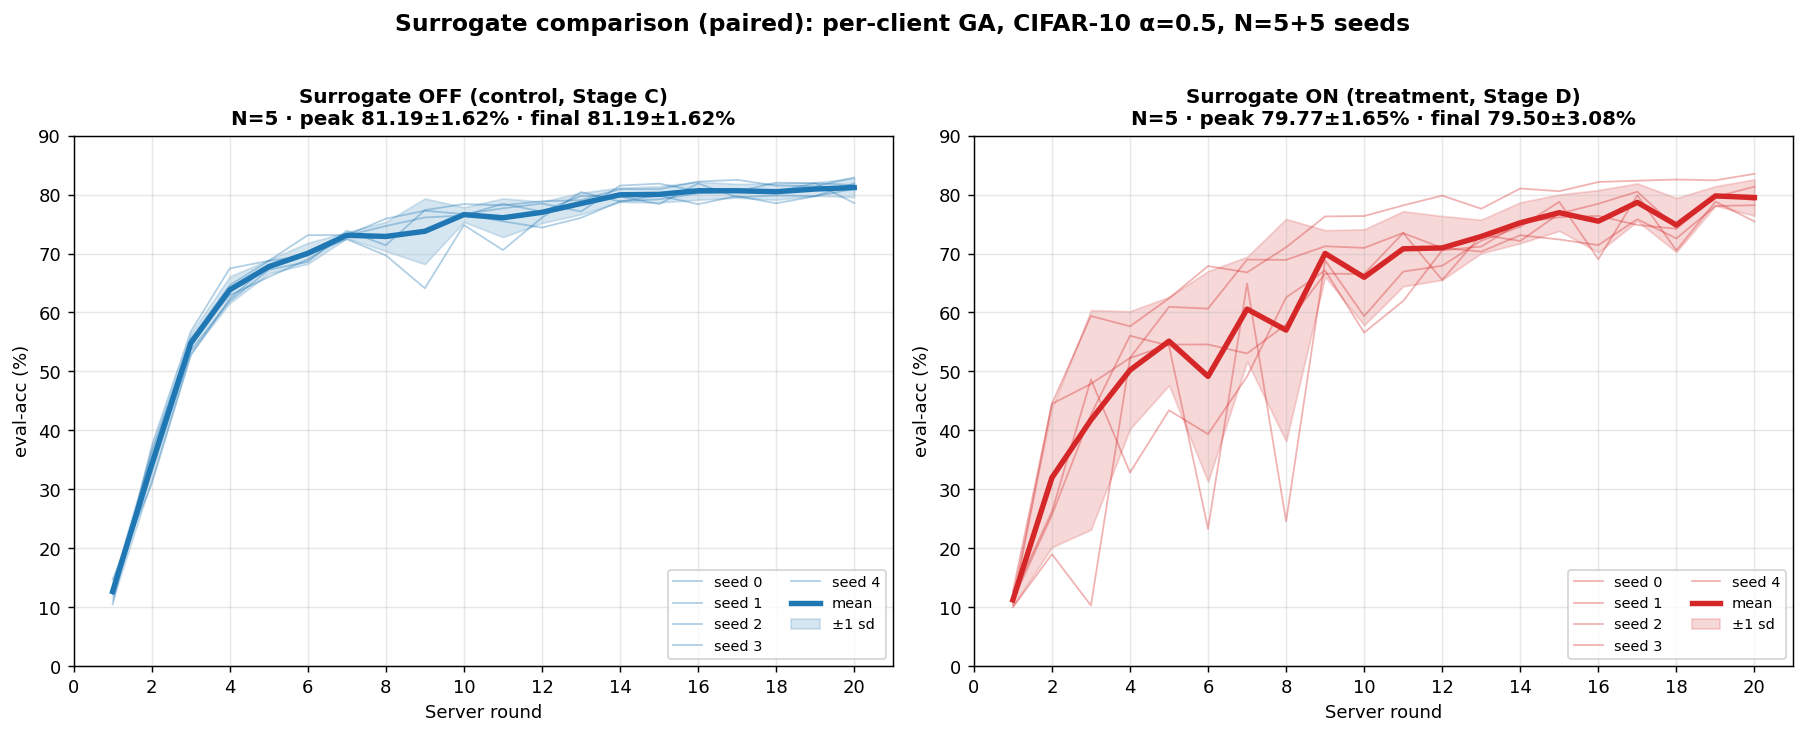
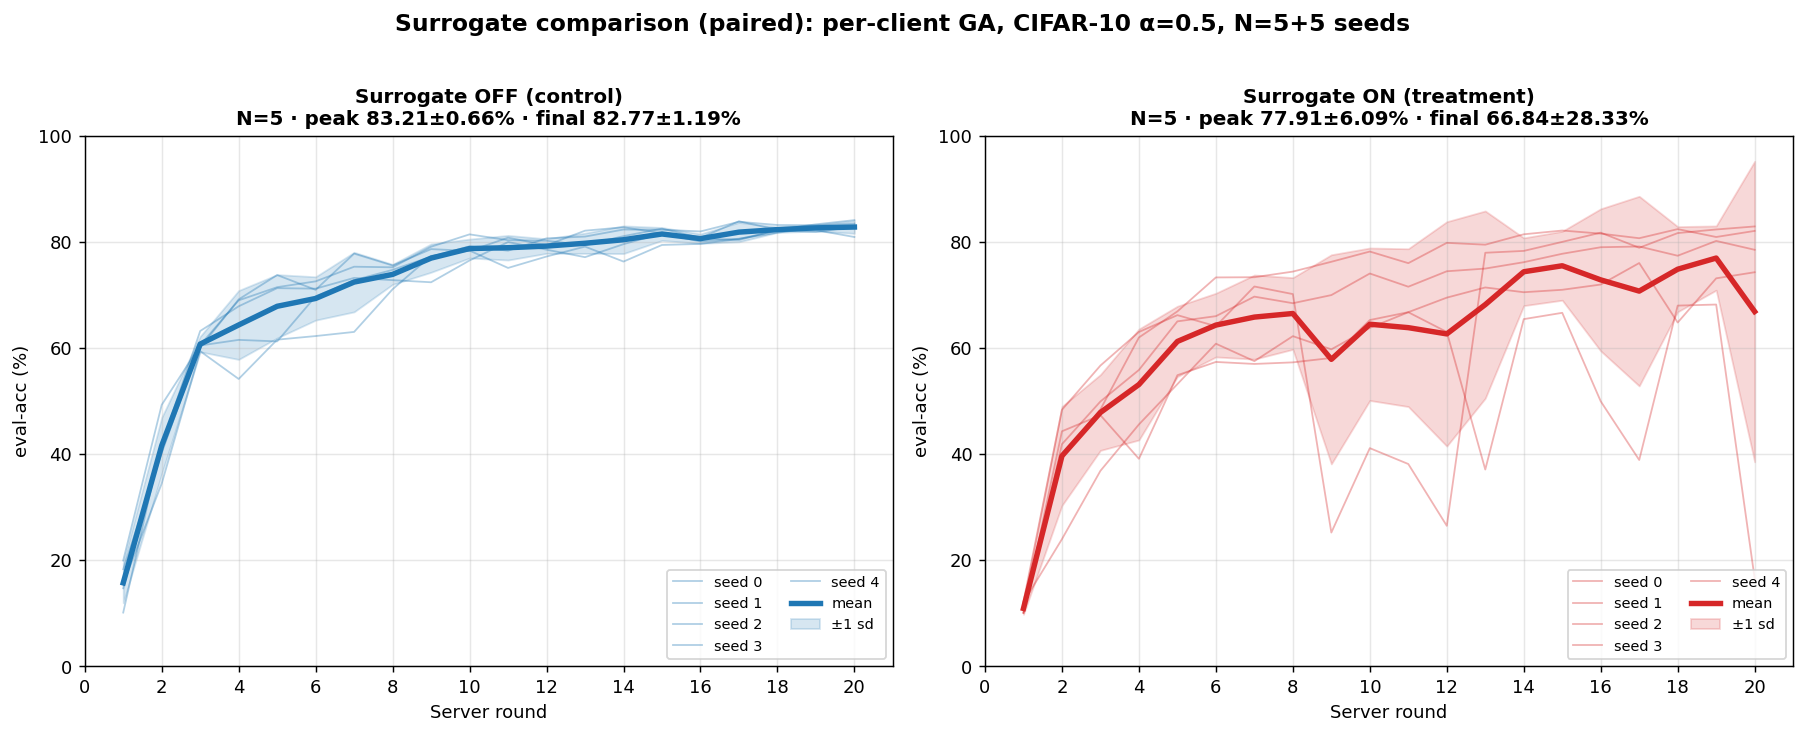
Surrogate comparison on the final runs
surrogate_ablation.py reads FGA_SUMMARY like the other scripts; its plot
titles now show the per-run peak and final used in the report, and the sd
bands stay inside [0, 100].

diff --git a/analysis/surrogate_ablation.py b/analysis/surrogate_ablation.py
@@ -5,6 +5,7 @@ Writes surrogate_ablation.png and surrogate_ablation_report.md next to this file
 from __future__ import annotations
 
 import csv
+import os
 import statistics
 from collections import defaultdict
 from pathlib import Path
@@ -15,7 +16,8 @@ from scipy import stats
 
 ROOT = Path(__file__).resolve().parents[1]
 ARTIFACTS = ROOT / "federatedgeneticalgorithm" / "artifacts"
-MATRIX = ARTIFACTS / "matrix_summary.csv"
+# FGA_SUMMARY picks another summary file, e.g. matrix_summary_final.csv
+MATRIX = Path(os.environ.get("FGA_SUMMARY", ARTIFACTS / "matrix_summary.csv"))
 OUT_PNG = Path(__file__).parent / "surrogate_ablation.png"
 OUT_MD = Path(__file__).parent / "surrogate_ablation_report.md"
 
@@ -127,8 +129,8 @@ def main():
 
     fig, axes = plt.subplots(1, 2, figsize=(14, 5.5))
     panels = [
-        ("Surrogate OFF (control, Stage C)", ctrl, "#1f77b4", axes[0]),
-        ("Surrogate ON (treatment, Stage D)", trt, "#d62728", axes[1]),
+        ("Surrogate OFF (control)", ctrl, "#1f77b4", axes[0]),
+        ("Surrogate ON (treatment)", trt, "#d62728", axes[1]),
     ]
     crashes_per_seed = {}
     for label, rows, color, ax in panels:
@@ -150,20 +152,21 @@ def main():
         sds_arr = np.array(sds)
         ax.plot(all_rounds, means_arr, color=color, lw=3.0, label="mean")
         ax.fill_between(
-            all_rounds, means_arr - sds_arr, means_arr + sds_arr, color=color, alpha=0.18, label="±1 sd"
+            all_rounds, np.clip(means_arr - sds_arr, 0, 100), np.clip(means_arr + sds_arr, 0, 100),
+            color=color, alpha=0.18, label="±1 sd",
         )
-        peak_mean = max(means)
-        peak_sd = sds[int(np.argmax(means))]
-        final_mean = means[-1]
-        final_sd = sds[-1]
+        # per-run peak and final, the same numbers as the report tables
+        peaks = [100 * r["peak"] for r in rows]
+        finals = [accs[-1] for _, _, accs in per_seed]
         ax.set_title(
-            f"{label}\nN=5 · peak {peak_mean:.2f}±{peak_sd:.2f}% · final {final_mean:.2f}±{final_sd:.2f}%",
+            f"{label}\nN={len(rows)} · peak {statistics.mean(peaks):.2f}±{statistics.stdev(peaks):.2f}% "
+            f"· final {statistics.mean(finals):.2f}±{statistics.stdev(finals):.2f}%",
             fontsize=11, fontweight="bold",
         )
         ax.set_xlabel("Server round")
         ax.set_ylabel("eval-acc (%)")
         ax.set_xlim(0, 21)
-        ax.set_ylim(0, 90)
+        ax.set_ylim(0, 100)
         ax.set_xticks(range(0, 21, 2))
         ax.grid(alpha=0.3)
         ax.legend(loc="lower right", fontsize=8, ncol=2)

diff --git a/analysis/surrogate_ablation_report.md b/analysis/surrogate_ablation_report.md
@@ -6,45 +6,46 @@
 
 | Variant | N | Mean (%) | SD (%) | CI95% ± (%) | Median (%) | IQR (%) | Min–Max (%) |
 |---|---:|---:|---:|---:|---:|---:|---:|
-| Surrogate OFF (control) | 5 | 81.94 | 0.68 | 0.84 | 81.91 | 0.11 | 80.97–82.89 |
-| Surrogate ON (treatment) | 5 | 80.69 | 1.96 | 2.43 | 80.49 | 1.44 | 78.19–83.52 |
+| Surrogate OFF (control) | 5 | 83.21 | 0.66 | 0.81 | 82.83 | 1.03 | 82.66–84.07 |
+| Surrogate ON (treatment) | 5 | 77.91 | 6.09 | 7.57 | 80.15 | 6.40 | 68.16–82.88 |
 
-**Δ (OFF − ON) = +1.25 pp** · Mann-Whitney U = 19.0, p = 0.2222 (two-sided, exact)
+**Δ (OFF − ON) = +5.30 pp** · Mann-Whitney U = 22.0, p = 0.0556 (two-sided, exact)
 
 ## 2. Final eval-acc (round 20)
 
 | Variant | N | Mean (%) | SD (%) | CI95% ± (%) | Median (%) | IQR (%) | Min–Max (%) |
 |---|---:|---:|---:|---:|---:|---:|---:|
-| Surrogate OFF (control) | 5 | 81.19 | 1.62 | 2.02 | 81.61 | 0.94 | 78.56–82.89 |
-| Surrogate ON (treatment) | 5 | 79.50 | 3.08 | 3.83 | 79.02 | 3.15 | 75.43–83.52 |
+| Surrogate OFF (control) | 5 | 82.77 | 1.19 | 1.47 | 82.83 | 0.74 | 80.89–84.07 |
+| Surrogate ON (treatment) | 5 | 66.84 | 28.33 | 35.17 | 78.48 | 7.79 | 16.53–82.88 |
 
-**Δ (OFF − ON) = +1.69 pp** · Mann-Whitney U = 17.0, p = 0.4206 (two-sided, exact)
+**Δ (OFF − ON) = +15.93 pp** · Mann-Whitney U = 21.0, p = 0.0952 (two-sided, exact)
 
 ## 3. Wall-time
 
 | Variant | N | Mean (min) | SD (min) | Min–Max (min) |
 |---|---:|---:|---:|---:|
-| Surrogate OFF (control) | 5 | 114.2 | 3.1 | 110.1–117.8 |
-| Surrogate ON (treatment) | 5 | 63.8 | 1.7 | 61.6–66.4 |
+| Surrogate OFF (control) | 5 | 142.7 | 5.2 | 137.2–150.0 |
+| Surrogate ON (treatment) | 5 | 63.7 | 1.7 | 62.5–66.2 |
 
-**Δ wall (OFF − ON) = +50.4 min** · ratio OFF/ON = **1.79×** · Mann-Whitney U = 25.0, p = 0.0079
+**Δ wall (OFF − ON) = +79.0 min** · ratio OFF/ON = **2.24×** · Mann-Whitney U = 25.0, p = 0.0079
 
 ## 4. Per-seed peak (paired)
 
 | Seed | OFF peak (%) | ON peak (%) | Δ (OFF−ON) pp |
 |---:|---:|---:|---:|
-| 0 | 82.89 | 78.19 | +4.70 |
-| 1 | 80.97 | 83.52 | -2.55 |
-| 2 | 81.91 | 79.90 | +2.01 |
-| 3 | 82.02 | 81.34 | +0.68 |
-| 4 | 81.91 | 80.49 | +1.42 |
+| 0 | 84.07 | 80.15 | +3.92 |
+| 1 | 83.76 | 82.88 | +0.88 |
+| 2 | 82.73 | 82.38 | +0.35 |
+| 3 | 82.83 | 68.16 | +14.67 |
+| 4 | 82.66 | 75.98 | +6.68 |
 
-**Wilcoxon signed-rank (paired by seed)**: W = 4.0, p = 0.4375
+**Wilcoxon signed-rank (paired by seed)**: W = 0.0, p = 0.0625
 
 ## 5. Catastrophic crashes (Δeval-acc < -10pp in 1 round)
 
-- **Surrogate ON (treatment, Stage D) · seed 2**: R6 (−31.1pp), R8 (−40.3pp)
-- **Surrogate ON (treatment, Stage D) · seed 3**: R4 (−15.8pp), R10 (−10.5pp)
+- **Surrogate ON (treatment) · seed 1**: R9 (−45.0pp), R12 (−11.7pp)
+- **Surrogate ON (treatment) · seed 3**: R13 (−25.9pp), R16 (−16.7pp), R17 (−11.1pp), R20 (−51.6pp)
+- **Surrogate ON (treatment) · seed 4**: R18 (−11.2pp)
 
 ## 6. Plot
 

diff --git a/analysis/README.md b/analysis/README.md
@@ -19,4 +19,6 @@ export FGA_SUMMARY=$PWD/federatedgeneticalgorithm/artifacts/matrix_summary_final
 uv run --project federatedgeneticalgorithm python analysis/results_tables.py --markdown analysis/results_tables.md
 uv run --project federatedgeneticalgorithm python analysis/client_agreement.py --markdown analysis/client_agreement_report.md
 uv run --project federatedgeneticalgorithm python analysis/paper_figures.py
+uv run --project federatedgeneticalgorithm python analysis/fitness_bias.py --markdown analysis/fitness_bias_report.md
+uv run --project federatedgeneticalgorithm python analysis/surrogate_ablation.py
 ```
